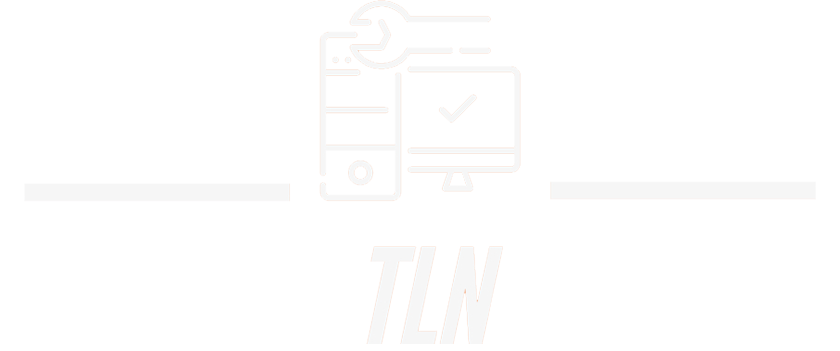
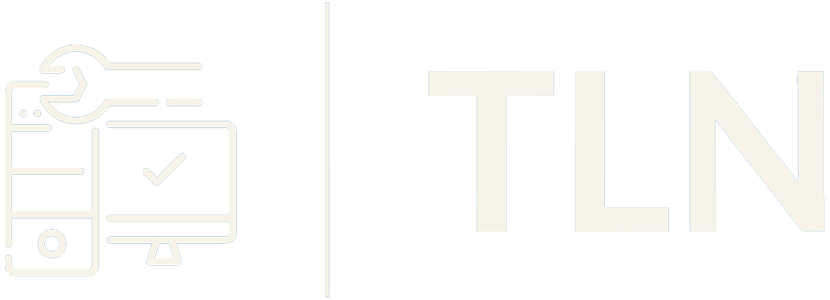
Add files via upload

diff --git a/review_styles.css b/review_styles.css
@@ -10,14 +10,19 @@ height: 100%;
 }
 
 #header {
-background-color: #0072CE;
-padding: 0.5% 0%;
-font-size: 150%;
-top: 0px;
-text-align: center;
-margin: auto;
-
-}
+  background-color: #0072CE;
+  top: 0;
+  text-align: center;
+  margin: auto;
+  width: 100%;
+  height: 6%;
+  background-image: url(img.png);
+  background-repeat: no-repeat;
+  background-position: center;
+  background-size: 7.2%;
+  position: relative;
+  z-index: 1;
+  }
     
 
 .form {

diff --git a/review.html b/review.html
@@ -6,7 +6,7 @@
         <script src="https://kit.fontawesome.com/395591ac65.js" crossorigin="anonymous"></script>
     </head>
     <body>
-        <p id="header">Compania De Apa Buzau</p>
+        <div id="header"></div>
         <div id="div2">
             <div class="form">
                 <div id="review">

diff --git a/styles.css b/styles.css
@@ -9,10 +9,8 @@ color: #ffffff;
 background-color: #15172b;
 position:relative;
 }
-
 #header {
 background-color: #0072CE;
-
 top: 0;
 text-align: center;
 margin: auto;
